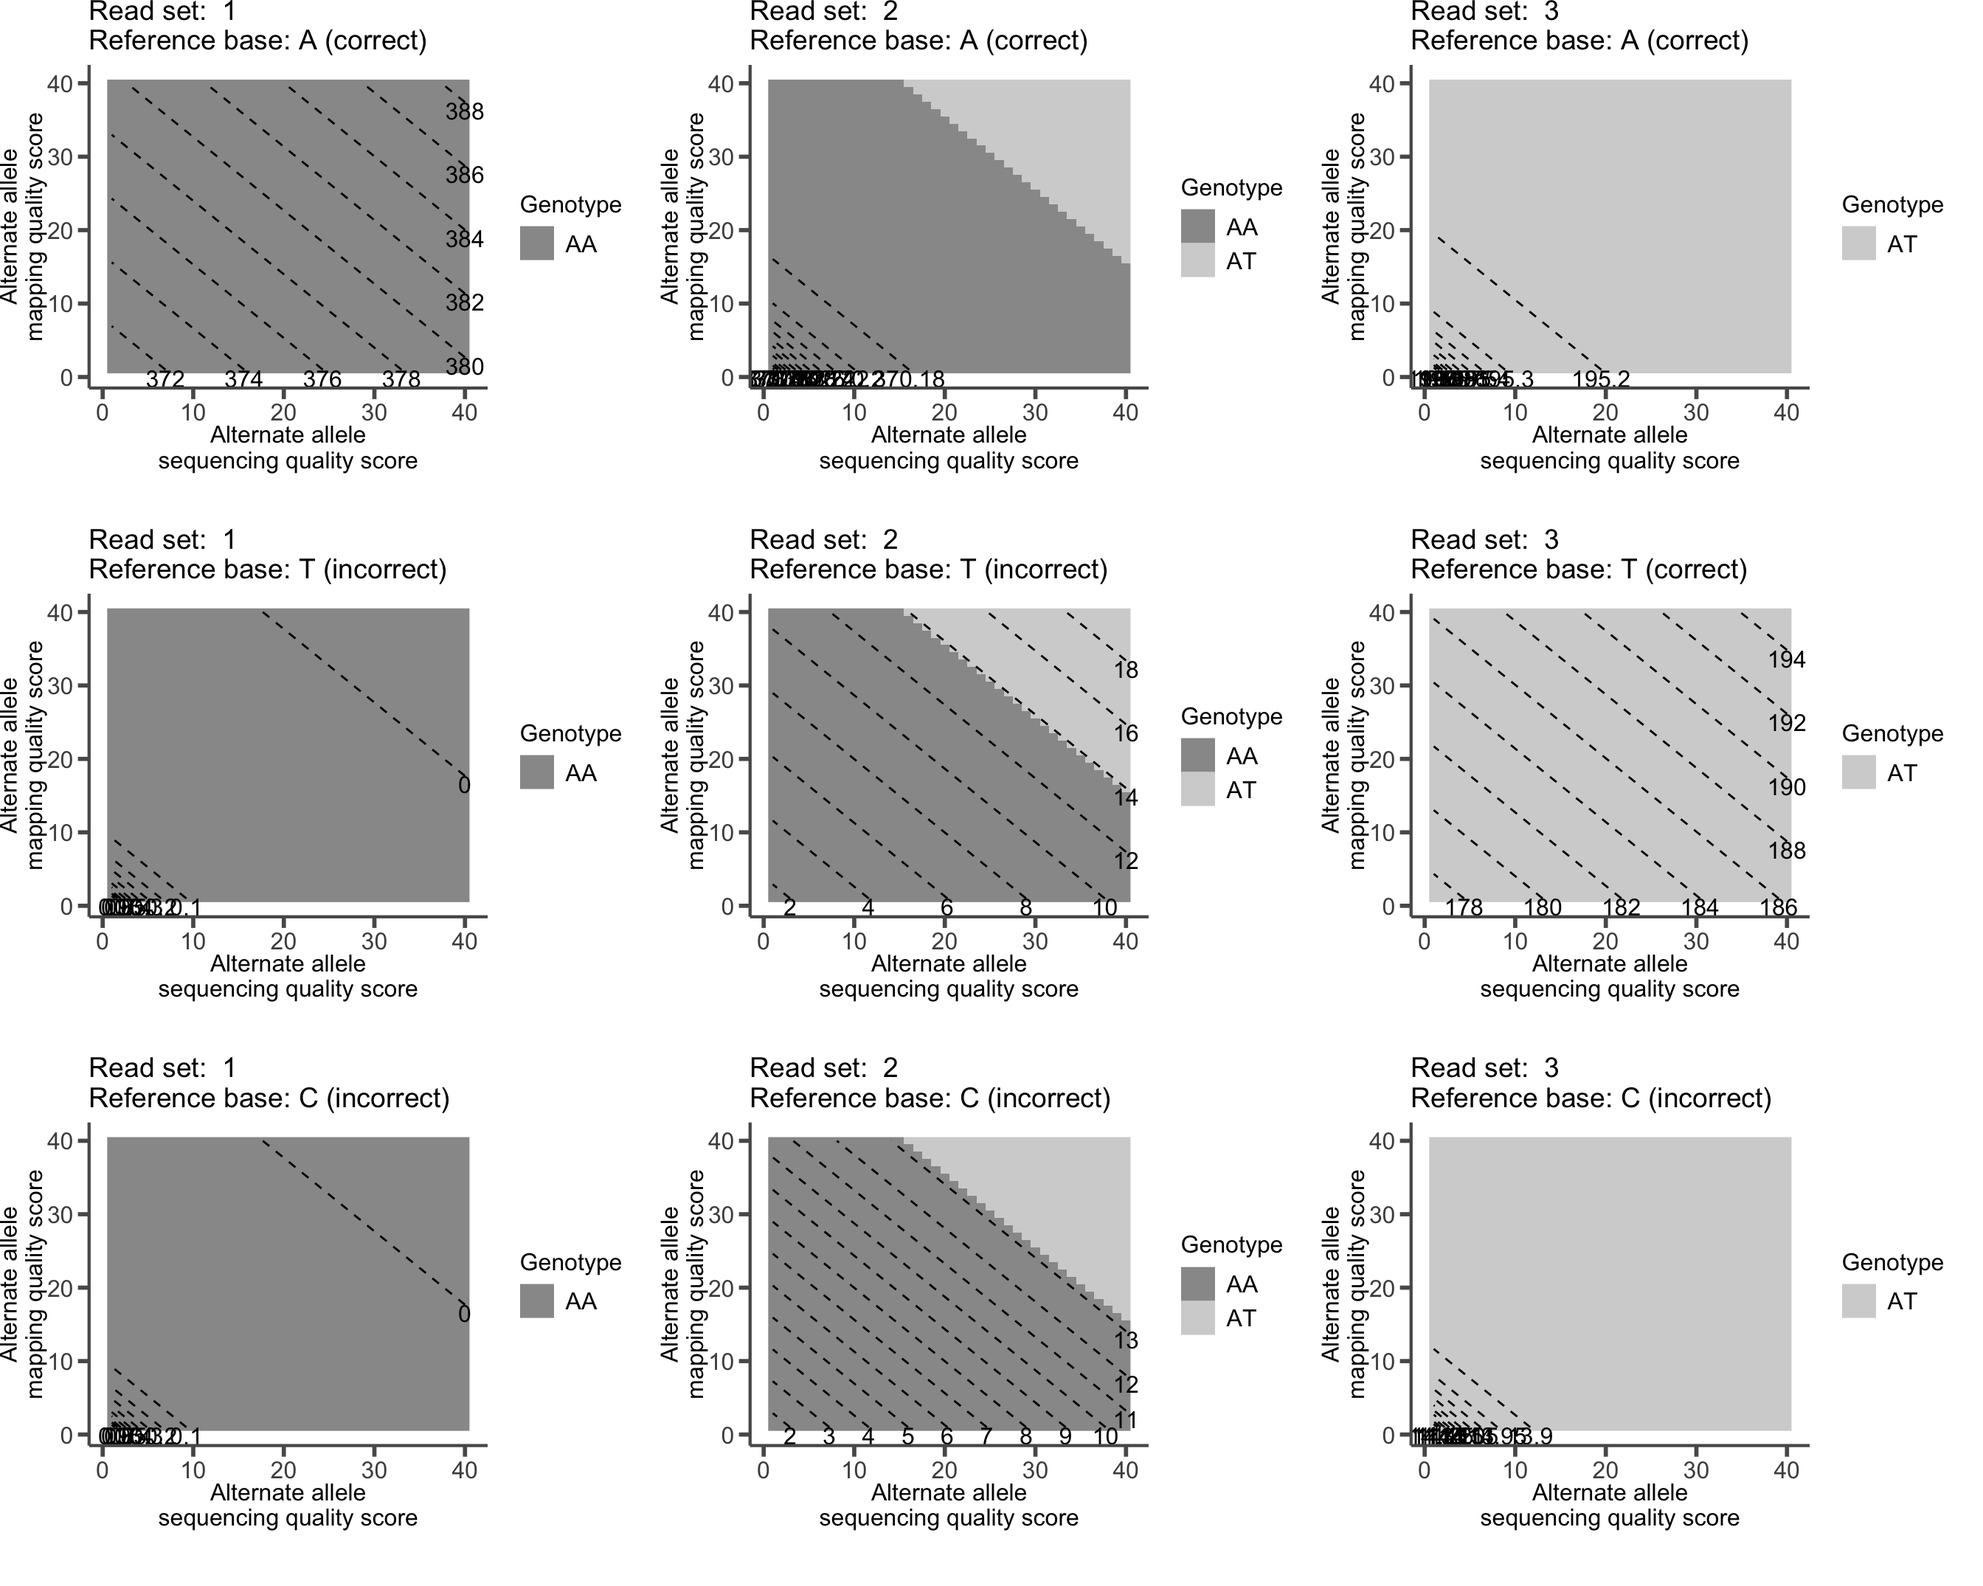
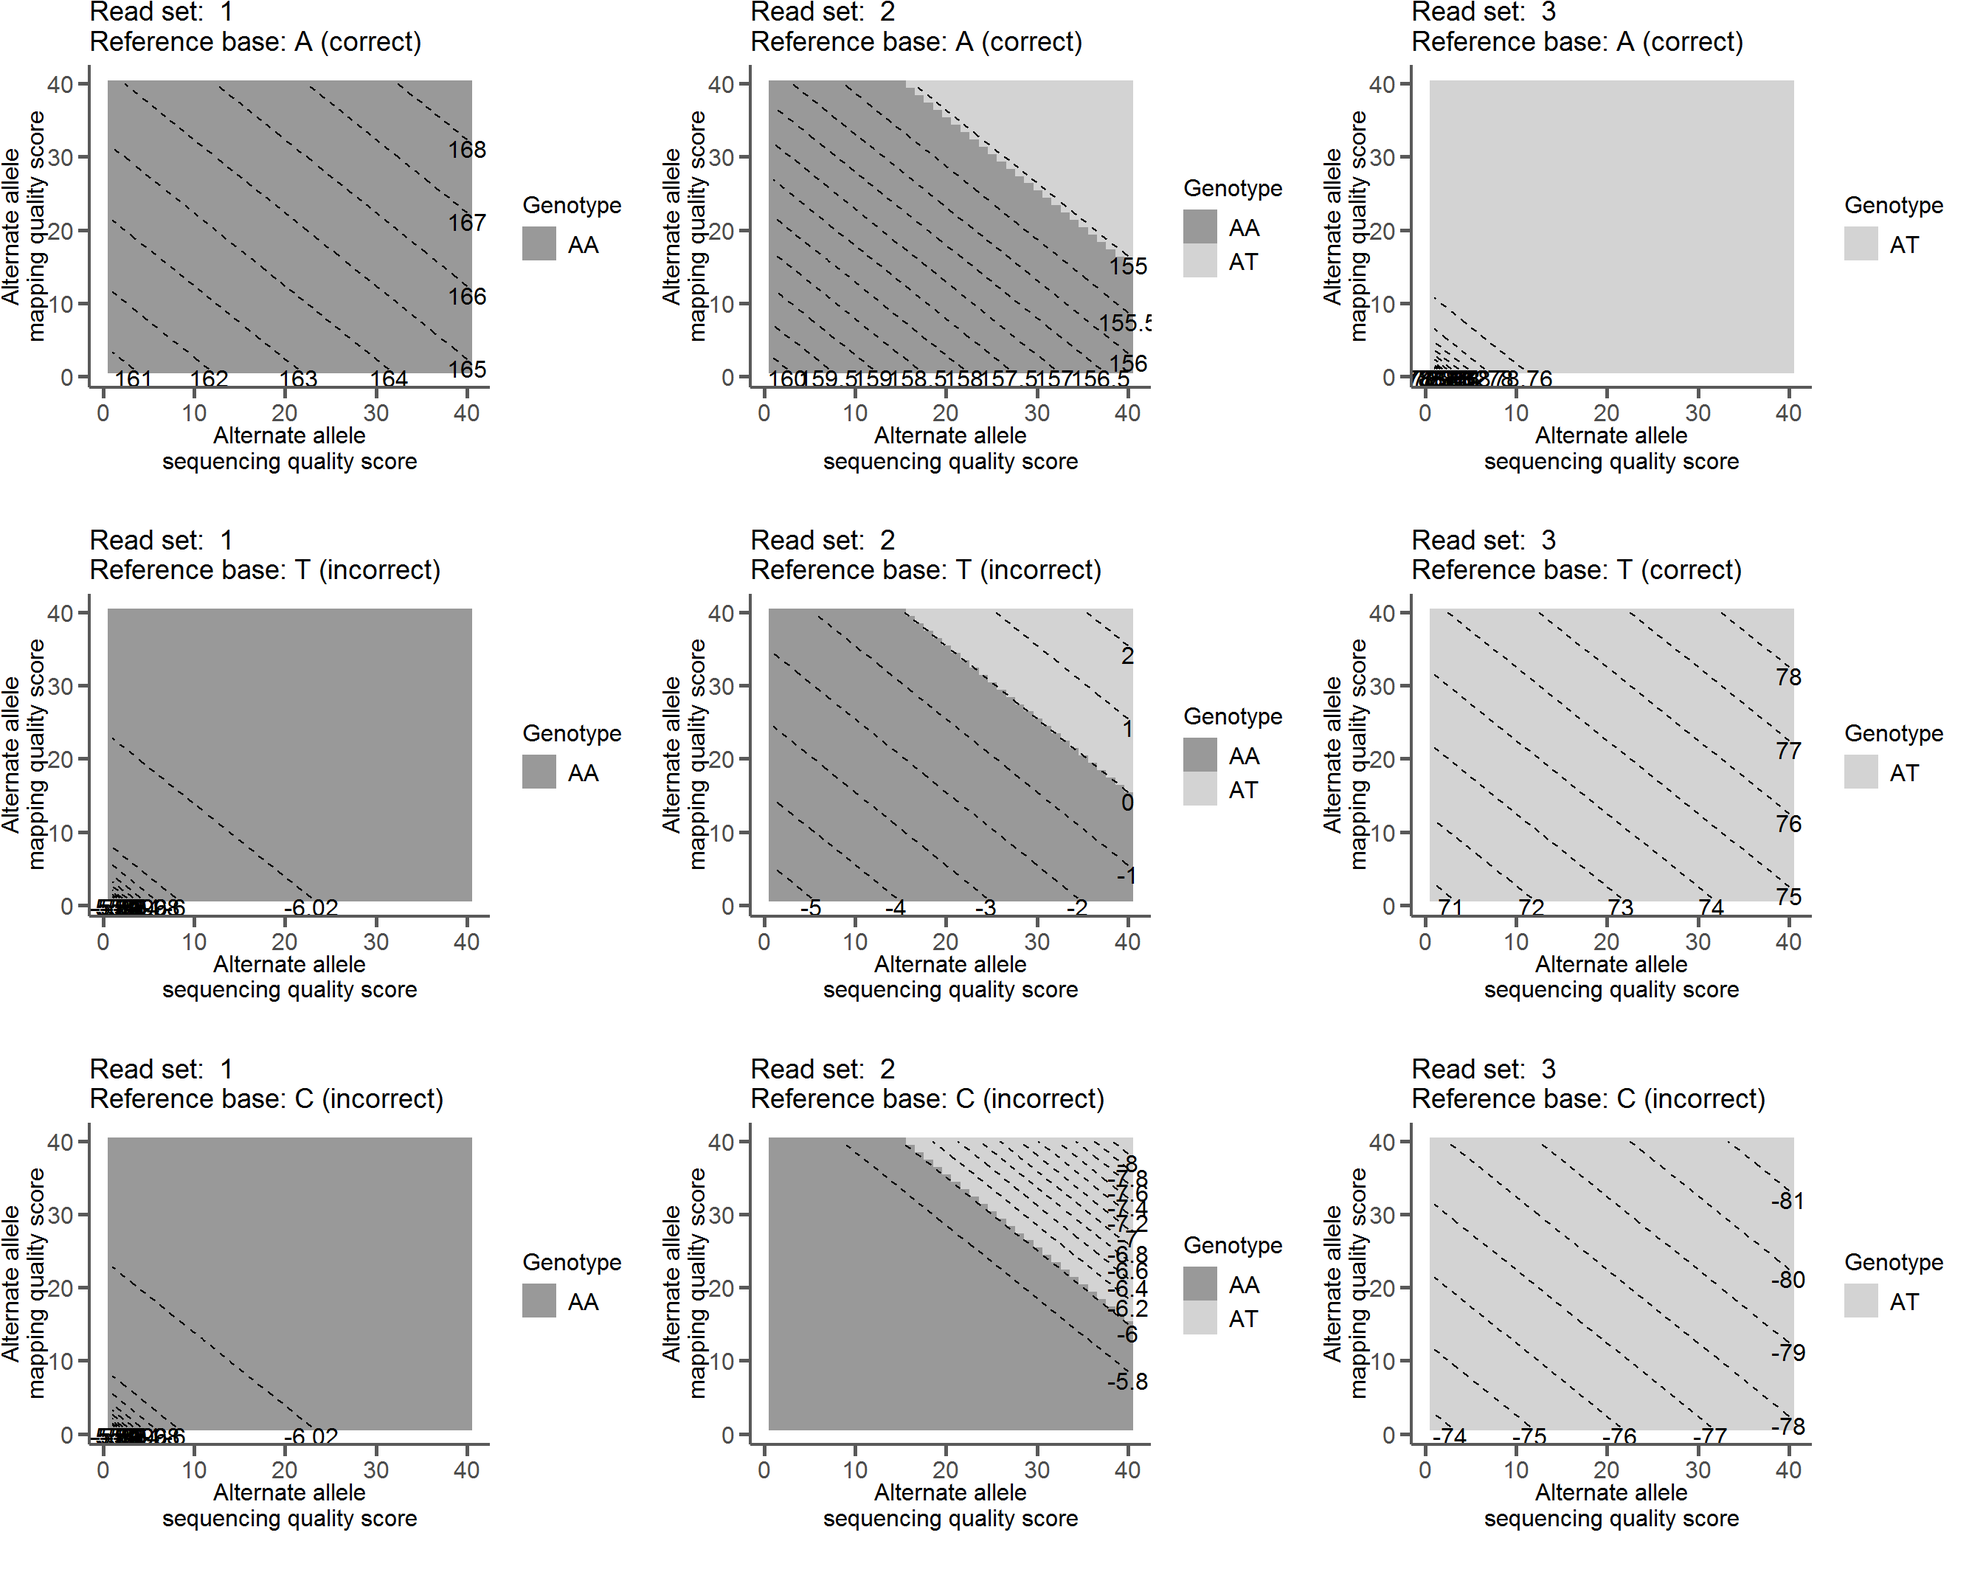
site

diff --git a/docs/calcs.html b/docs/calcs.html
@@ -22,7 +22,6 @@
 <script src="site_libs/navigation-1.1/tabsets.js"></script>
 <link href="site_libs/highlightjs-9.12.0/default.css" rel="stylesheet" />
 <script src="site_libs/highlightjs-9.12.0/highlight.js"></script>
-<script src="site_libs/kePrint-0.0.1/kePrint.js"></script>
 <link rel="shortcut icon" href="img/favicon.png">
 
 <style type="text/css">code{white-space: pre;}</style>
@@ -70,7 +69,7 @@ h6 {
 }
 </style>
 
-<link rel="stylesheet" href="lib/styles.css" type="text/css" />
+<link rel="stylesheet" href="lib\styles.css" type="text/css" />
 
 </head>
 
@@ -92,9 +91,6 @@ img {
 }
 .tabbed-pane {
   padding-top: 12px;
-}
-.html-widget {
-  margin-bottom: 20px;
 }
 button.code-folding-btn:focus {
   outline: none;
@@ -237,29 +233,27 @@ $(document).ready(function () {
 <p>Practically, the multiplication of many small probabilities in <strong>Equation 1</strong> can lead to underflow errors. To resolve this, we simply take the log of the probabilities and add them instead:</p>
 <p><strong>Equation 4</strong></p>
 <p><span class="math display">\[ P_{log}(R|\mathbb{G} = \{A_1,A_2\}) = \sum_{r}^{R} \log(\frac{1}{2}P(b_r|A_1) + \frac{1}{2}P(b_r|A_2)) \]</span></p>
-<p>The log-likelihood of each genotype is obtained in this fashion. The log-likelihood for each of the 10 genotypes (<span class="math inline">\(P_{log}(R|\mathbb{G} = \{A_1,A_2\})\)</span>) is all we need for the purpose of calculating a reference quality score. (Note: ANGSD does not consider mapping quality when calculating genotype likelihoods). We also scale the genotype log-likelihoods by subtracting the largest likelihood from each score:</p>
-<p><strong>Equation 5</strong></p>
-<p><span class="math display">\[ P_{scaled}(R|\mathbb{G}) = P_{log}(R|\mathbb{G}) - \max{P_{log}(R|\mathbb{G})} \]</span></p>
+<p>The log-likelihood of each genotype is obtained in this fashion. The log-likelihood for each of the 10 genotypes (<span class="math inline">\(P_{log}(R|\mathbb{G} = \{A_1,A_2\})\)</span>) is all we need for the purpose of calculating a reference quality score. (Note: ANGSD does not consider mapping quality when calculating genotype likelihoods).</p>
 <hr />
 </div>
 <div id="ii.-a-reference-quality-score" class="section level2">
 <h2>II. A reference quality score</h2>
-<p>Now we wish to compute a quality value <span class="math inline">\(Q_{ref}\)</span> for a reference base given a set of reads <span class="math inline">\(R\)</span> that map to that position. We want this number to represent the probability that the called base is an error such that it will be high when we are sure the reference base <span class="math inline">\(B_R\)</span> is correct and low when we are sure the reference base is incorrect.</p>
-<p>To do this, we simply sum up all of the likelihoods for genotypes that do not contain the reference base. First, we get out of the log scale:</p>
+<p>First, we sum up the likelihoods of all genotypes that contain the reference allele (<span class="math inline">\(L_{match}\)</span>) and separately sum up the likelihoods of all the genotypes that do not contain the reference allele (<span class="math inline">\(L_{mismatch}\)</span>).</p>
+<p><strong>Equation 5</strong></p>
+<p><span class="math display">\[ L_{match} = \sum_g^\mathbb{G} P(R\;|\;g) \; \text{if} \; B_R \in g \]</span></p>
 <p><strong>Equation 6</strong></p>
-<p><span class="math display">\[ P(R|\mathbb{G}) = e^{P_{log}(R|\mathbb{G})} \]</span></p>
-<p>And then sum the appropriate likelihoods:</p>
-<p><strong>Equation 7</strong></p>
 <p><span class="math display">\[ L_{mismatch} = \sum_g^\mathbb{G} P(R\;|\;g) \; \text{if} \; B_R \notin g \]</span></p>
 <p>For instance, if our reference base was an A, then:</p>
+<p><span class="math display">\[ L_{match} = P(R|\{A,A\}) + P(R|\{A,T\}) + P(R|\{A,C\}) + P(R|\{A,G\})\]</span></p>
+<p>and:</p>
 <p><span class="math display">\[ L_{mismatch} = P(R|\{T,T\}) + P(R|\{T,C\}) + P(R|\{T,G\}) + P(R|\{C,C\}) + P(R|\{C,G\}) + P(R|\{G,G\})\]</span></p>
-<p>Then we convert this to the Phred scale by taking the negative log to obatin a reference quality score, <span class="math inline">\(Q_\mathbb{R}\)</span>:</p>
+<p>with the probabilities being calculated with Equation 1.</p>
+<p>We can then set up a likelihood ratio <span class="math inline">\(LR\)</span> by divding <span class="math inline">\(L_{match}\)</span> by <span class="math inline">\(L_{mismatch}\)</span>:</p>
+<p><strong>Equation 7</strong></p>
+<p><span class="math display">\[ LR = \frac{L_{match}}{L_{mismatch}} \]</span></p>
+<p>And this can be log-scaled to get us an informative value for a quality score:</p>
 <p><strong>Equation 8</strong></p>
-<p><span class="math display">\[ Q_\mathbb{R} = -\log{L_{mismatch}} \]</span></p>
-<p>We limit scores to a max of 90, with a few special cases (see <a href="https://github.com/gwct/referee">README</a>). For fastq format, scores are translated as:</p>
-<p><strong>Equation 9</strong></p>
-<p>FASTQ score char = ascii(numerical score + 35)</p>
-<hr />
+<p><span class="math display">\[ Q_\mathbb{R} = \log{LR} \]</span></p>
 </div>
 <div id="iii.-calculation-of-q_mathbbr-on-example-read-sets" class="section level2">
 <h2>III. Calculation of <span class="math inline">\(Q_\mathbb{R}\)</span> on example read sets</h2>
@@ -357,9 +351,7 @@ Map qual
 </tr>
 </tbody>
 </table>
-<p>The above read sets were plugged into the relevant equations to calculate <span class="math inline">\(Q_\mathbb{R}\)</span> with one read varying in both base and mapping quality. The countour plots show how each behave with different reference base calls.</p>
-<p>In the figure below, each panel represents the results of genotype likelihood calculations and reference quality score calculations on a combination of one reference base and one read set with single read varying in base (x-axis) and mapping quality (y-axis). The shading indicates the most likely genotype, while the labeled dashed lines indicate the reference quality scores.</p>
-<p>For example, in the upper left panel with read set 1 (all As) and a reference base call of A we see high scores regardless of varying quality of a single read. However, in the lower left panel the same read set when the reference base is called as a C scores very low, indicating that the reads do not support a C as the called base.</p>
+<p>The above read sets were plugged into the relevant equations to calculate <span class="math inline">\(Q_\mathbb{R}\)</span> with one read varying in both base and mapping quality. The countour plots show how each behave with different reference base calls. For example, with read set 1 (all As) and a reference base call of A we see high scores regardless of varying quality of a single read (upper left panel). However, the same read set when the reference base is called as a C scores very low, indicating that the reads do not support a C as the called base (lower left panel).</p>
 <p><strong>Examples of <span class="math inline">\(Q_{ref}\)</span></strong></p>
 <p><img src="calcs_files/figure-html/method2-1.png" width="1344" style="display: block; margin: auto;" /></p>
 <p>This has the desired behavior of being a high score when we are sure the reference base is correct and a low score when we are sure the reference base is not correct. In fact, it has the nice property of being centered around 0, with positive scores indicating support for the called reference base and negative scores indicating support for the reference base being an error. The closer to 0 the score is (positive or negative) the less confident we are in our assertion.</p>

diff --git a/lib/stash.py b/lib/stash.py
@@ -514,3 +514,129 @@
 #parser.add_argument("-e", dest="endpos", help="Set the end position for the input file(s). Default: last position in assembly/scaffold", default=False);
 #parser.add_argument("-c", dest="score_cutoff", help="The cut-off score for --correct. Sites that score below this cut-off will have an alternate reference base suggested. If --correct isn't set, this option is ignored. Default: 1", default=False);
 #parser.add_argument("--stats", dest="stats_opt", help=argparse.SUPPRESS, action="store_true", default=False);
+
+#############################################################################
+# SCORE METHOD 2 EXPLANATION
+
+#  We also scale the genotype log-likelihoods by subtracting the largest likelihood from each score:
+
+# **Equation 5**
+
+# $$ P_{scaled}(R|\mathbb{G}) = P_{log}(R|\mathbb{G}) - \max{P_{log}(R|\mathbb{G})} $$
+
+
+# Now we wish to compute a quality value $Q_{ref}$ for a reference base given a set of reads $R$ that map to that position. We want this number to represent the probability that the called base is an error such that it will be high when we are sure the reference base $B_R$ is correct and low when we are sure the reference base is incorrect.
+
+# To do this, we simply sum up all of the likelihoods for genotypes that do not contain the reference base. First, we get out of the log scale:
+
+# **Equation 6**
+
+# $$ P(R|\mathbb{G}) = e^{P_{log}(R|\mathbb{G})} $$
+
+# And then sum the appropriate likelihoods:
+
+# **Equation 7**
+
+# $$ L_{mismatch} = \sum_g^\mathbb{G} P(R\;|\;g) \; \text{if} \; B_R \notin g $$
+
+# For instance, if our reference base was an A, then:
+
+# $$ L_{mismatch} = P(R|\{T,T\}) + P(R|\{T,C\}) + P(R|\{T,G\}) + P(R|\{C,C\}) + P(R|\{C,G\}) + P(R|\{G,G\})$$
+
+# Then we convert this to the Phred scale by taking the negative log to obatin a reference quality score, $Q_\mathbb{R}$:
+
+# **Equation 8**
+
+# $$ Q_\mathbb{R} = -\log{L_{mismatch}} $$
+
+# We limit scores to a max of 90, with a few special cases (see [README](https://github.com/gwct/referee)). For fastq format, scores are translated as:
+
+# **Equation 9**
+
+# FASTQ score char = ascii(numerical score + 35)
+
+# -----
+
+# ## III. Calculation of $Q_\mathbb{R}$ on example read sets
+
+# **Example read sets:**
+
+# ```{r read-sets, echo=FALSE}
+# read_set = c("A","A","A","A","A","A","A","A","A","A","A","A","A","A","A","A","A","A","A","A")
+# read_set_1a = list(num=1,reads=read_set,ref="A",ans="(correct)")
+# read_set_1t = list(num=1,reads=read_set,ref="T",ans="(incorrect)")
+# read_set_1c = list(num=1,reads=read_set,ref="C",ans="(incorrect)")
+# read_set = c("A","A","A","A","A","A","A","A","A","A","A","A","A","A","A","A","A","A","A","T")
+# read_set_2a = list(num=2,reads=read_set,ref="A",ans="(correct)")
+# read_set_2t = list(num=2,reads=read_set,ref="T",ans="(incorrect)")
+# read_set_2c = list(num=2,reads=read_set,ref="C",ans="(incorrect)")
+# read_set = c("A","A","A","A","A","A","A","A","A","A","T","T","T","T","T","T","T","T","T","T")
+# read_set_3a = list(num=3,reads=read_set,ref="A",ans="(correct)")
+# read_set_3t = list(num=3,reads=read_set,ref="T",ans="(correct)")
+# read_set_3c = list(num=3,reads=read_set,ref="C",ans="(incorrect)")
+
+# rs1_df = data.frame(read_set=c("Reads","Base qual","Map qual"),
+#                        reads=c("A  A  A  A  A  A  A  A  A  A  A  A  A  A  A  A  A  A  A  A",
+#                                "40 40 40 40 40 40 40 40 40 40 40 40 40 40 40 40 40 40 40 1-40",
+#                                "40 40 40 40 40 40 40 40 40 40 40 40 40 40 40 40 40 40 40 1-40"))
+
+# rs1_table = kable(rs1_df, "html", caption="Read set 1") %>%
+#   kable_styling(bootstrap_options=c("striped", "condensed", "responsive"), full_width=F)
+# gsub("<thead>.*</thead>", "", rs1_table)
+
+# rs2_df = data.frame(read_set=c("Reads","Base qual","Map qual"),
+#                        reads=c("A  A  A  A  A  A  A  A  A  A  A  A  A  A  A  A  A  A  A  T",
+#                                "40 40 40 40 40 40 40 40 40 40 40 40 40 40 40 40 40 40 40 1-40",
+#                                "40 40 40 40 40 40 40 40 40 40 40 40 40 40 40 40 40 40 40 1-40"))
+
+# rs2_table = kable(rs2_df, "html", caption="Read set 2") %>%
+#   kable_styling(bootstrap_options=c("striped", "condensed", "responsive"), full_width=F)
+# gsub("<thead>.*</thead>", "", rs2_table)
+
+# rs3_df = data.frame(read_set=c("Reads","Base qual","Map qual"),
+#                        reads=c("A  A  A  A  A  A  A  A  A  A  T  T  T  T  T  T  T  T  T  T",
+#                                "40 40 40 40 40 40 40 40 40 40 40 40 40 40 40 40 40 40 40 1-40",
+#                                "40 40 40 40 40 40 40 40 40 40 40 40 40 40 40 40 40 40 40 1-40"))
+
+# rs3_table = kable(rs3_df, "html", caption="Read set 3") %>%
+#   kable_styling(bootstrap_options=c("striped", "condensed", "responsive"), full_width=F)
+# gsub("<thead>.*</thead>", "", rs3_table)
+# ```
+
+# The above read sets were plugged into the relevant equations to calculate $Q_\mathbb{R}$ with one read varying in both base and mapping quality. The countour plots show how each behave with different reference base calls. 
+
+# In the figure below, each panel represents the results of genotype likelihood calculations and reference quality score calculations on a combination of one reference base and one read set with single read varying in base (x-axis) and mapping quality (y-axis). The shading indicates the most likely genotype, while the labeled dashed lines indicate the reference quality scores.
+
+# For example, in the upper left panel with read set 1 (all As) and a reference base call of A we see high scores regardless of varying quality of a single read. However, in the lower left panel the same read set when the reference base is called as a C scores very low, indicating that the reads do not support a C as the called base.
+
+# **Examples of $Q_{ref}$**
+
+# ```{r method2, fig.width=14, fig.height=11.2, fig.align="center", echo=FALSE, message=FALSE}
+# method = 6
+# read_set_1a_results = cycleReads(read_set_1a, method)
+# rs1a_p = plotScores(read_set_1a_results, read_set_1a$num, read_set_1a$ref, read_set_1a$ans)
+# read_set_1t_results = cycleReads(read_set_1t, method)
+# rs1t_p = plotScores(read_set_1t_results, read_set_1t$num, read_set_1t$ref, read_set_1t$ans)
+# read_set_1c_results = cycleReads(read_set_1c, method)
+# rs1c_p = plotScores(read_set_1c_results, read_set_1c$num, read_set_1c$ref, read_set_1c$ans)
+# read_set_2a_results = cycleReads(read_set_2a, method)
+# rs2a_p = plotScores(read_set_2a_results, read_set_2a$num, read_set_2a$ref, read_set_2a$ans)
+# read_set_2t_results = cycleReads(read_set_2t, method)
+# rs2t_p = plotScores(read_set_2t_results, read_set_2t$num, read_set_2t$ref, read_set_2t$ans)
+# read_set_2c_results = cycleReads(read_set_2c, method)
+# rs2c_p = plotScores(read_set_2c_results, read_set_2c$num, read_set_2c$ref, read_set_2c$ans)
+# read_set_3a_results = cycleReads(read_set_3a, method)
+# rs3a_p = plotScores(read_set_3a_results, read_set_3a$num, read_set_3a$ref, read_set_3a$ans)
+# read_set_3t_results = cycleReads(read_set_3t, method)
+# rs3t_p = plotScores(read_set_3t_results, read_set_3t$num, read_set_3t$ref, read_set_3t$ans)
+# read_set_3c_results = cycleReads(read_set_3c, method)
+# rs3c_p = plotScores(read_set_3c_results, read_set_3c$num, read_set_3c$ref, read_set_3c$ans)
+
+# method2 = grid.arrange(rs1a_p,rs2a_p,rs3a_p,rs1t_p,rs2t_p,rs3t_p,rs1c_p,rs2c_p,rs3c_p, ncol=3,nrow=3)
+
+# result_list = list(read_set_1a_results, read_set_2a_results, read_set_3a_results,
+#                     read_set_1t_results, read_set_2t_results, read_set_3t_results,
+#                     read_set_1c_results, read_set_2c_results, read_set_3c_results)
+# #topScores(result_list, 40)
+# #topScores(result_list, 1)
+# ```
